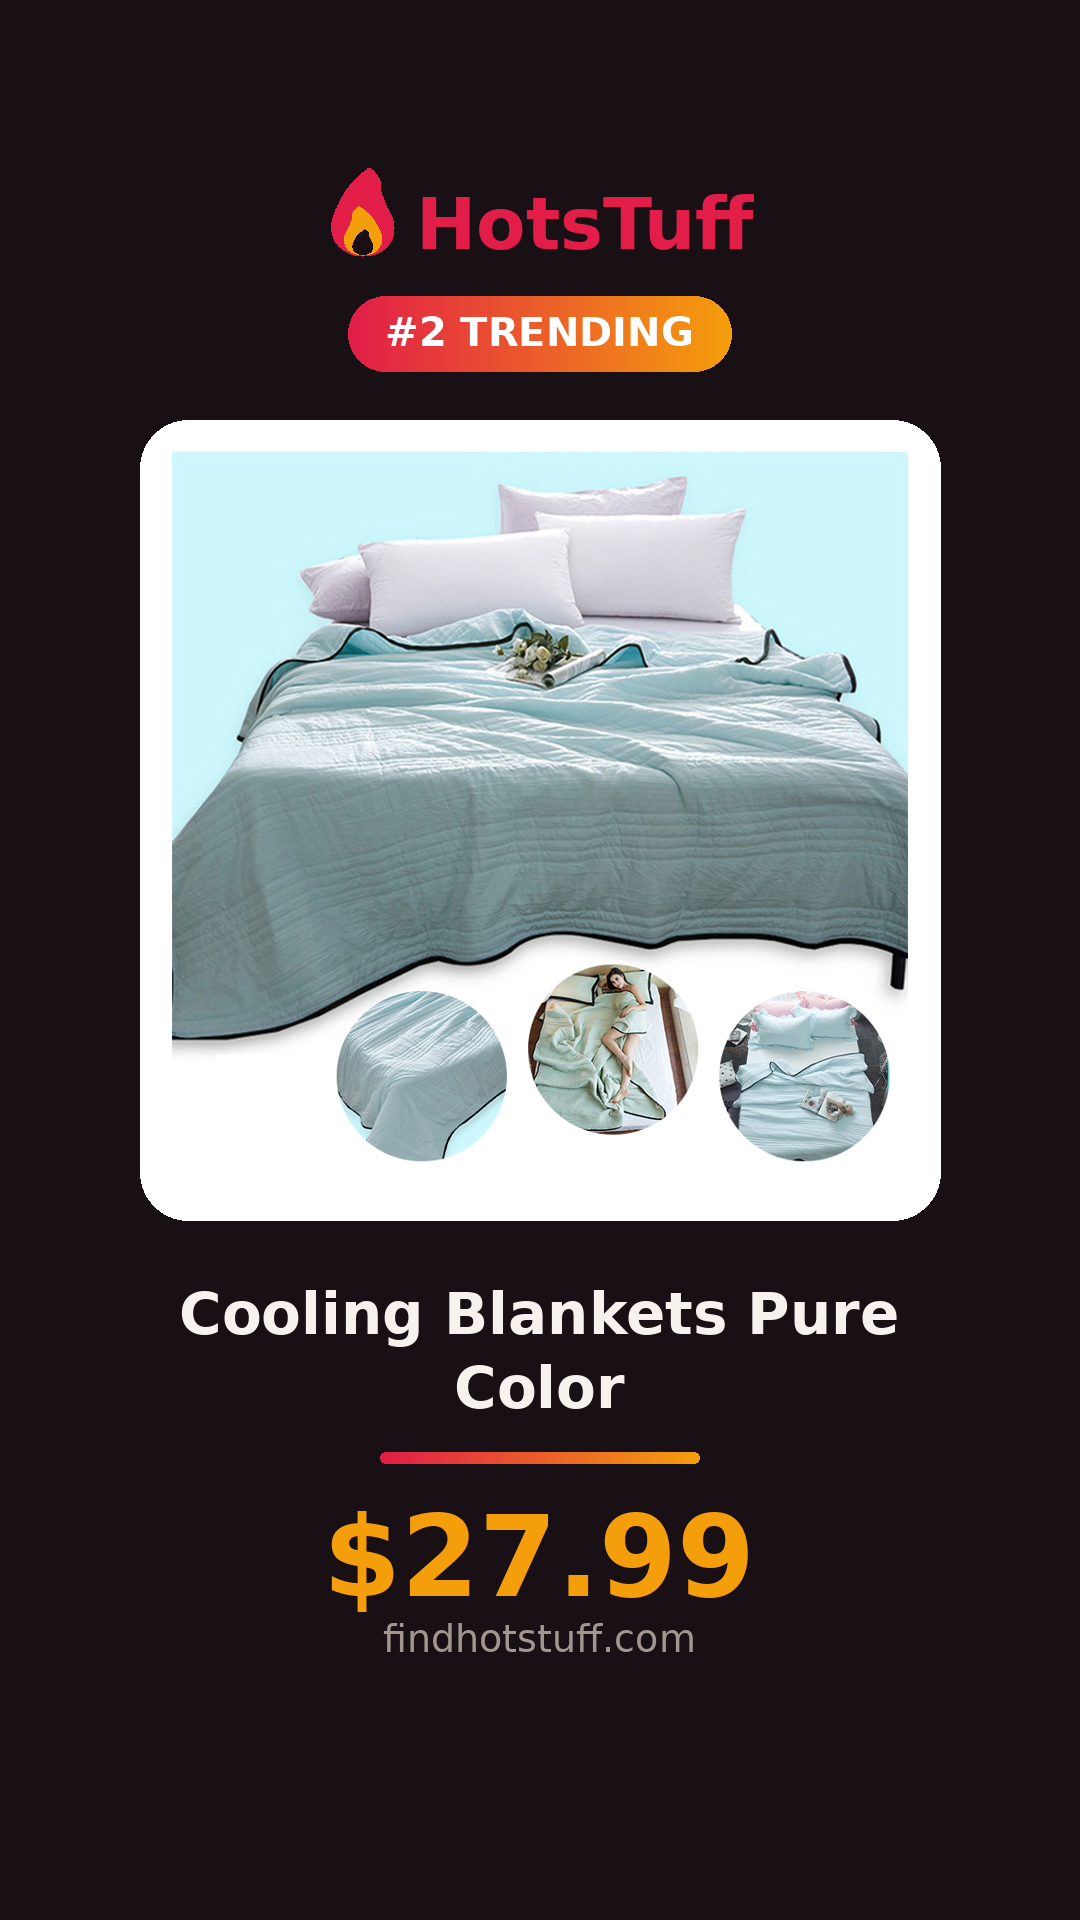
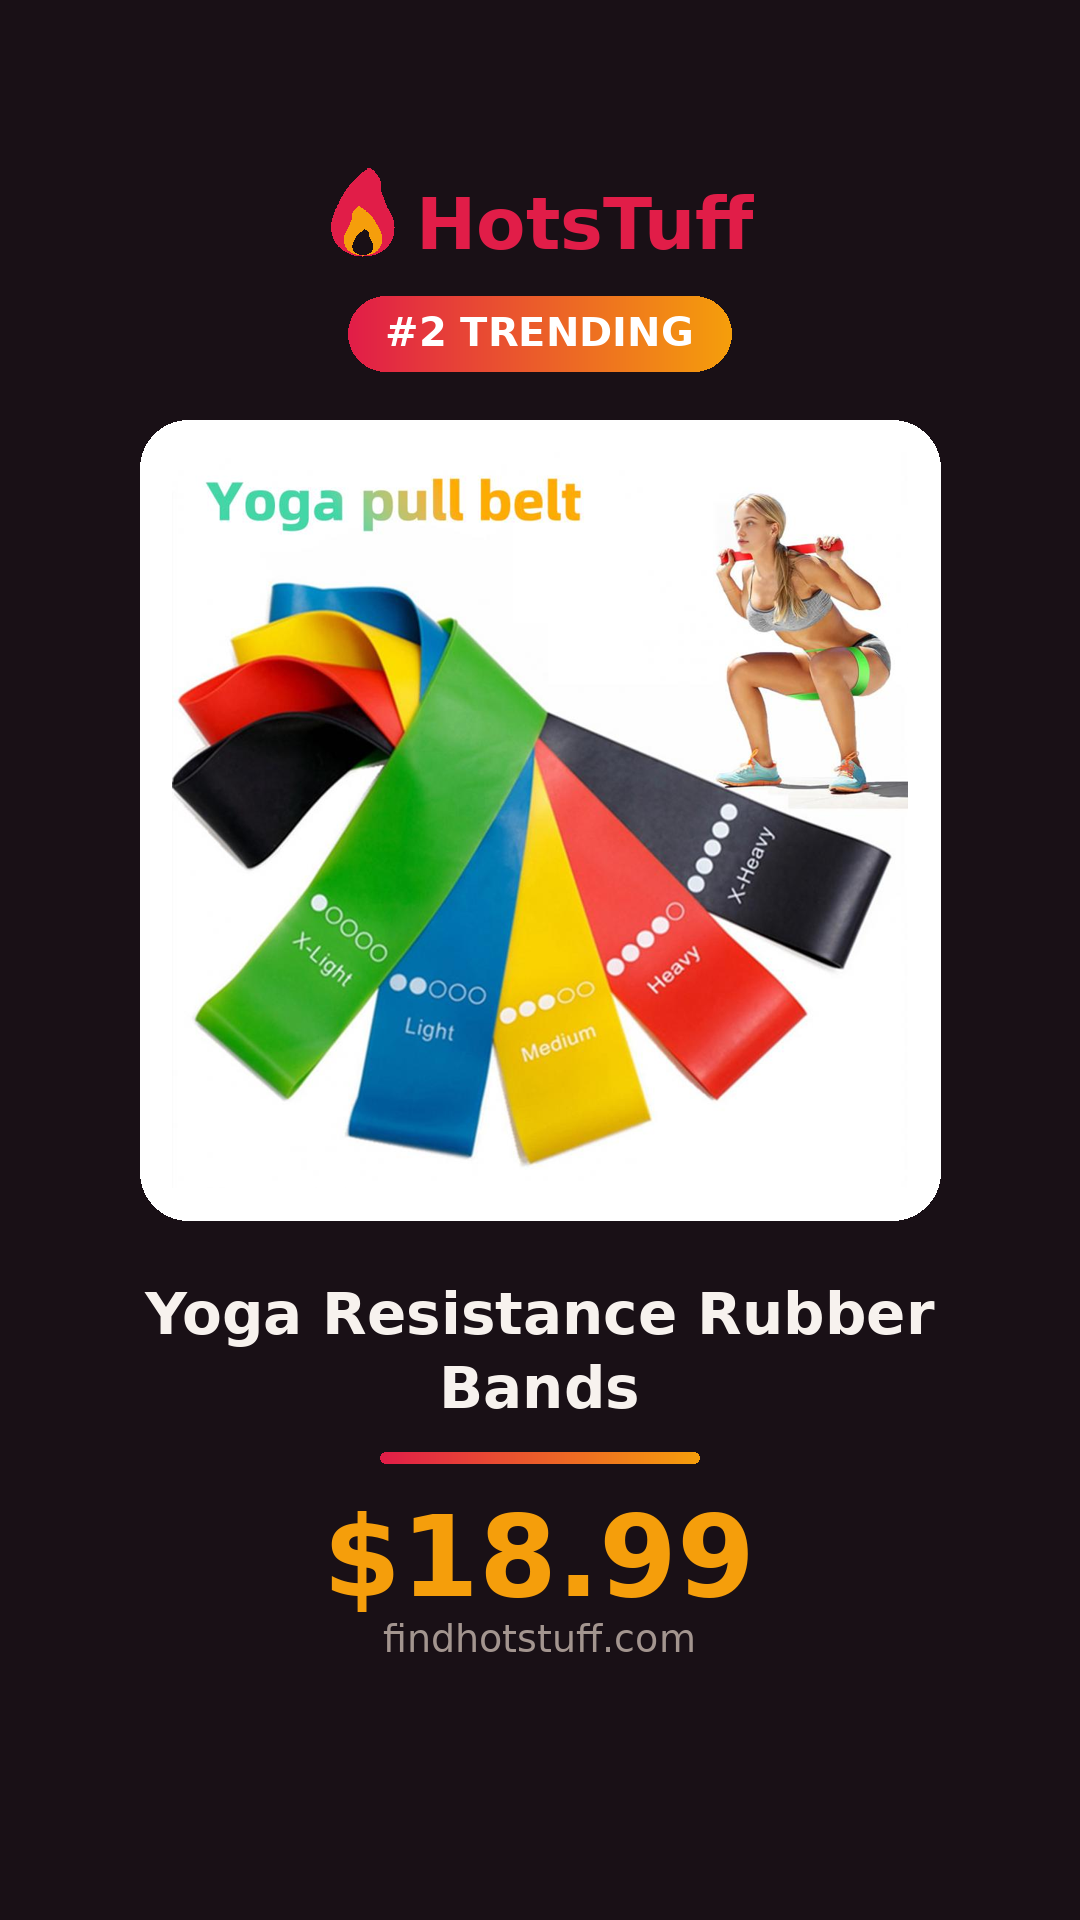
Regenerate daily TikTok packs for 07-29

diff --git a/marketing/tiktok/daily/captions.md b/marketing/tiktok/daily/captions.md
@@ -1,12 +1,12 @@
 # Daily TikTok posts (auto-generated)
 
-_Generated 2026-07-28 · post PRODUCT in the daytime, AGENT in the evening._
+_Generated 2026-07-29 · post PRODUCT in the daytime, AGENT in the evening._
 
 
 ## 🔥 Product post (product/) — caption
 
 ```
-today's heat check 🔥 blackhead + cooling and more — all under one link #tiktokmademebuyit #trending #dailyfinds
+today's heat check 🔥 pocket + yoga and more — all under one link #tiktokmademebuyit #trending #dailyfinds
 ```
 
 
